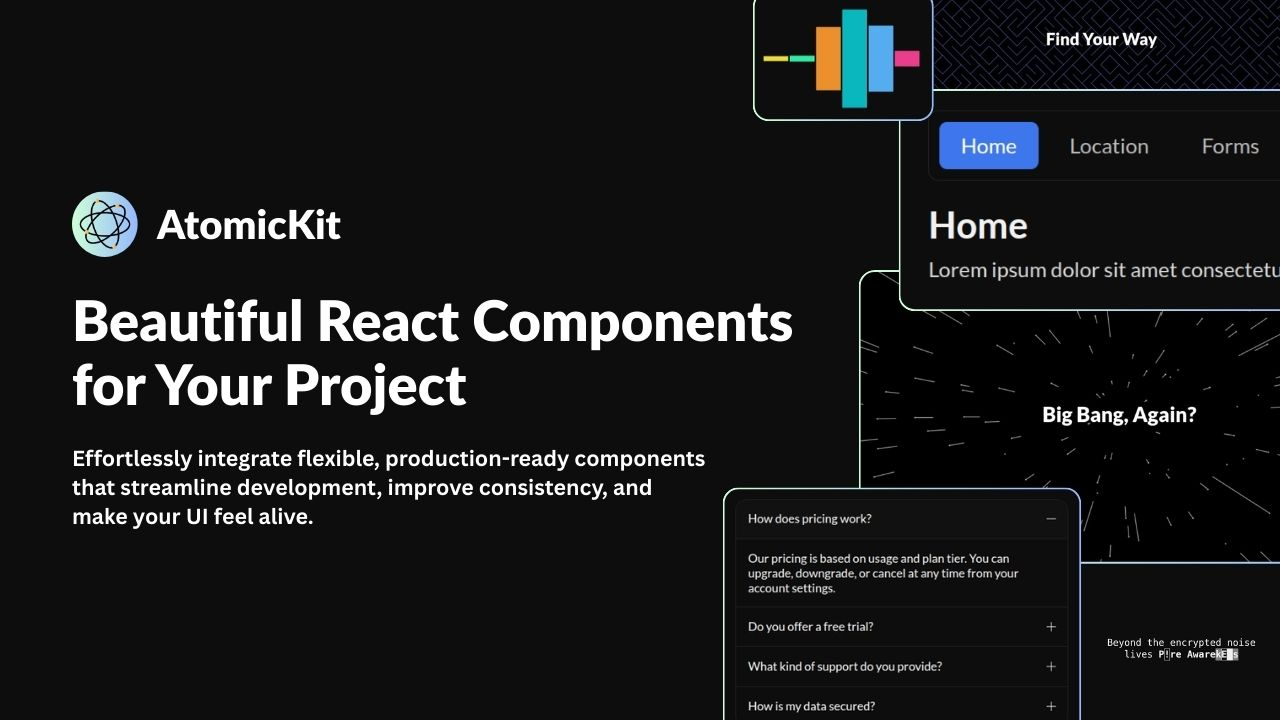
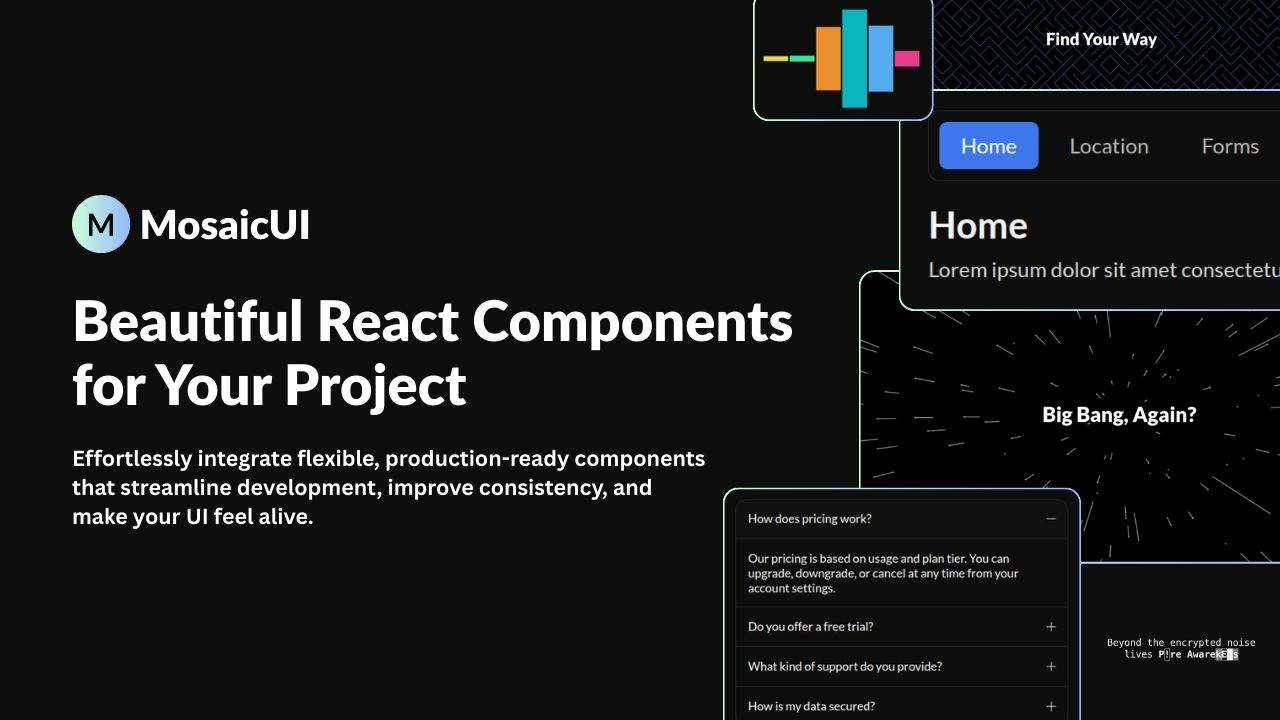
atomickit is now mosaicui

Changed region(s): [[0.0625, 0.2444, 0.2812, 0.3667]]

diff --git a/src/config/project.js b/src/config/project.js
@@ -1,7 +1,7 @@
 export default Object.freeze({
-	name: "AtomicKit",
+	name: "MosaicUI",
 	version: "1.0.0",
-	url: "https://atomickit.com/",
+	url: "https://mosaicui.com/",
 	keywords: [
 		"React",
 		"React components",
@@ -10,13 +10,14 @@ export default Object.freeze({
 		"React component Library",
 		"JavaScript components",
 		"UI Component Library",
-		"Atomickit",
+		"Mosaic ui",
+		"mosaicui",
 	],
 	author: "Darshan Sunil Rajadhyaksha",
 	social: {
 		github: {
 			handle: "darshan-rajadhyaksha",
-			url: "https://github.com/darshan-rajadhyaksha/AtomicKit"
+			url: "https://github.com/darshan-rajadhyaksha/mosaicui"
 		},
 		linkedin: {
 			handle: "darshan-rajadhyaksha",
@@ -28,7 +29,7 @@ export default Object.freeze({
 		},
 	},
 	logo: {
-		small: "/assets/logo/logo-50.jpg", 
+		small: "/assets/logo/logo-50.png", 
 		full: "/assets/logo/logo-500.png",
 	},
 });

diff --git a/src/config/navbar.js b/src/config/navbar.js
@@ -3,7 +3,7 @@ import project from "@/config/project";
 export default Object.freeze({
   logo: {
     title: project.name,
-    src: project.logo.full,
+    src: project.logo.small,
   },
   primaryLinks: [
     {
@@ -32,7 +32,7 @@ export default Object.freeze({
 export const landingPageConfig = Object.freeze({
   logo: {
     title: project.name,
-    src: project.logo.full,
+    src: project.logo.small,
   },
   secondaryLinks: [
     {

diff --git a/README.md b/README.md
@@ -1,8 +1,8 @@
-# AtomicKit
+# MosaicUI
 ![Project Banner](public/assets/index.jpg)
 
 ## Links
-- [Introduction](https://atomickit.com/introduction)
-- [Installation](https://atomickit.com/installation)
-- [Components](https://atomickit.com/components)
-- [Changelog](https://atomickit.com/changelog)
+- [Introduction](https://mosaicui.com/introduction)
+- [Installation](https://mosaicui.com/installation)
+- [Components](https://mosaicui.com/components)
+- [Changelog](https://mosaicui.com/changelog)
